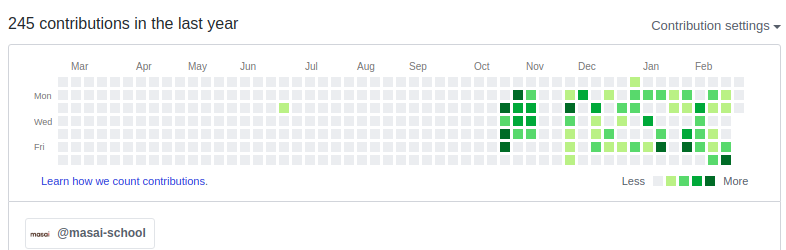
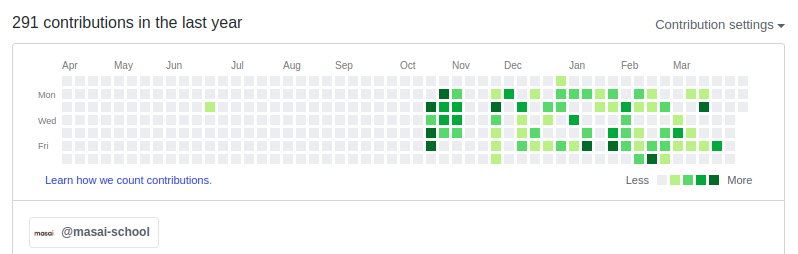
update

diff --git a/src/App.jsx b/src/App.jsx
@@ -40,7 +40,7 @@ function App() {
         </div>
         <div className="row col-md-8 col-sm-12 justify-content-center">
           <h5 className="text-center text-muted">Looking forward towards establishing a professional career in such an organisation where I may be able to apply the knowledge, I have acquired, to contribute to the organisational goals and learn new technologies in order to upgrade myself further.</h5>
-          <button className="btn btn-lg btn-outline-info"> Download Resume</button>
+          <a className="ml-3 text-dark" href="https://drive.google.com/file/d/1zN-ZbW7oobOc0IZ8jy0RxzUouS78E3mI/view?usp=sharing" target="blank"><button className="btn btn-lg btn-outline-info"> Download Resume</button></a>
         </div>
         <div className="col-md-2 col-sm-0">
 
@@ -52,43 +52,43 @@ function App() {
       </div>
       <div className="row ml-5  justify-content-center">
         <div className="col-6 col-sm-6 col-md-4 col-lg-3 mb-3 mt-4">
-            <img  src="/git-icon.svg" style={{width: "111px"}} />
+            <img  src="/git-icon.svg" style={{width: "90px"}} />
             <p className="mt-2 ml-5 mt-3">GIT</p>
         </div>
         <div className="col-6 col-sm-6 col-md-4 col-lg-3 mb-3 ">
-            <img  src="/html-5.svg" style={{width: "111px"}} />
+            <img  src="/html-5.svg" style={{width: "90px"}} />
             <p className="mt-2 ml-4">HTML5</p>
         </div>
         <div className="col-6 col-sm-6 col-md-4 col-lg-3 mb-3">
-            <img  src="/css-3.svg" style={{width: "111px"}} />
+            <img  src="/css-3.svg" style={{width: "90px"}} />
             <p className="mt-2 ml-4">CSS</p>
         </div>
         <div className="col-6 col-sm-6 col-md-4 col-lg-3 mb-3 mt-4">
-            <img  src="/bootstrap.svg" style={{width: "111px"}} />
+            <img  src="/bootstrap.svg" style={{width: "90px"}} />
             <p className="mt-2 ml-1 mt-3">BOOTSTRAP</p>
         </div>
         <div className="col-6 col-sm-6 col-md-4 col-lg-3 mb-3 mt-4">
-            <img  src="/javascript.svg" style={{width: "111px"}} />
+            <img  src="/javascript.svg" style={{width: "90px"}} />
             <p className="mt-2 ml-2 mt-3">JAVASCRIPT</p>
         </div>
         <div className="col-6 col-sm-6 col-md-4 col-lg-3 mb-3 mt-4">
-            <img  src="/react.svg" style={{width: "111px"}} />
+            <img  src="/react.svg" style={{width: "90px"}} />
             <p className="mt-2 ml-4 mt-4">REACT</p>
         </div>
         <div className="col-6 col-sm-6 col-md-4 col-lg-3 mb-3 mt-4">
-            <img  src="/redux.svg" style={{width: "111px"}} />
+            <img  src="/redux.svg" style={{width: "90px"}} />
             <p className="mt-2 ml-4 mt-4">REDUX</p>
         </div>
         <div className="col-6 col-sm-6 col-md-4 col-lg-3 mb-3 mt-4">
-            <img  src="/python.svg" style={{width: "111px"}} />
+            <img  src="/python.svg" style={{width: "90px"}} />
             <p className="mt-2 ml-4 mt-4">PYTHON</p>
         </div>
         <div className="col-6 col-sm-6 col-md-4 col-lg-3 mb-3 mt-4">
-            <img  src="/flask.svg" style={{width: "111px"}} />
+            <img  src="/flask.svg" style={{width: "90px"}} />
             <p className="mt-2 ml-4 mt-4">FLASK</p>
         </div>
         <div className="col-6 col-sm-6 col-md-4 col-lg-3 mb-3 mt-5">
-            <img  src="/mysql.svg" style={{width: "111px"}} />
+            <img  src="/mysql.svg" style={{width: "90px"}} />
             <p className="mt-2 ml-4 mt-4">MYSQL</p>
         </div>
       </div>
@@ -100,28 +100,31 @@ function App() {
         <div className="col-md-3 mt-4">
             <img  src="/react.svg" style={{width: "111px"}} />
             <h5 className="mt-2 ml-4 mt-4 text-muted font-weight-bold">REACT APP</h5>
+            <p>When it comes to react apps<br></br>I have the strength of Atlas</p>
         </div>
         <div className="col-md-3 mt-3">
             <img  src="/database.png" style={{width: "111px"}} />
             <h5 className="mt-2 ml-4 mt-4 text-muted font-weight-bold">BACKEND</h5>
+            <p>I am the one who runs<br></br>the show</p>
         </div>
         <div className="col-md-3 mt-3">
             <img  src="/frontend.png" style={{width: "111px"}} />
             <h5 className="mt-2 ml-4 mt-4 text-muted font-weight-bold">FRONTEND</h5>
+            <p>Now just that I can<br></br>even host the show</p>
         </div>
         <div className="col-md-3 mt-3">
             <img  src="/datastructure.png" style={{width: "111px"}} />
             <h5 className="mt-2 ml-4 mt-4 text-muted font-weight-bold">DATA STRUCTURES</h5>
+            <p>Putting the right blocks in the<br></br>right place is just my thing</p>
         </div>
       </div>
       <div>
       <hr></hr>
       <div className="row justify-content-center">
-        <h1 className="text-muted  display-4">PROJECTS</h1>
-
+        <h1 className="text-muted  display-4">Projects</h1>
         <div className="container-fluid text-center mt-4 mb-5">
-            <div className="row">
-              <div className="col-lg-4 col-md-6 col-sm-12 mb-1">
+            <div className="row justify-content-center">
+              <div className="col-lg-4 col-md-6 col-sm-12 mb-5">
                   <div className="card  shadow-lg">
                     <div className="card-body ">
                       <img className="img-fluid mb-3" src="/expense.png" />
@@ -130,10 +133,10 @@ function App() {
                       <h5 class="card-text">
                         It is a expense manager which have different categories.You can add any expense with current date and time.It shows you the balance.
                       </h5>
-                      <a class="card-link text-muted mt-5" href="#" target="blank">
+                      <a class="card-link text-muted mt-5" href="https://github.com/krsnaapoorv/projects/tree/master/masai-sprint-2" target="blank">
                         <i class="fab fa-github"></i><strong>Github</strong>
                       </a>
-                      <a class="card-link text-muted mt-5" href="#" target="blank">
+                      <a class="card-link text-muted mt-5" href="https://manage-expense.netlify.com/" target="blank">
                         <i class="fab fa-external-link-square-alt"></i><strong>Demo Link</strong>
                       </a>
                     </div>
@@ -145,7 +148,7 @@ function App() {
                   </div>
               </div>
               <div className="col-lg-4 col-md-6 col-sm-12 mb-1">
-                  <div className="card  shadow-lg">
+                  <div className="card  shadow-lg pb-4">
                     <div className="card-body ">
                       <img className="img-fluid mb-3" src="/currency.png" />
                       <hr></hr>
@@ -153,14 +156,14 @@ function App() {
                       <h5 class="card-text">
                         It is a Currency Converter where you can check the current value of your currency with 160 different currencies.
                       </h5>
-                      <a class="card-link text-muted mt-5" href="#" target="blank">
+                      <a class="card-link text-muted mt-5" href="https://github.com/krsnaapoorv/projects/tree/master/masai-sprint-3" target="blank">
                         <i class="fab fa-github"></i><strong>Github</strong>
                       </a>
-                      <a class="card-link text-muted mt-5" href="#" target="blank">
+                      <a class="card-link text-muted mt-5" href="https://convert-currency-krsna.netlify.com/" target="blank">
                         <i class="fab fa-external-link-square-alt"></i><strong>Demo Link</strong>
                       </a>
                     </div>
-                    <div className="row justify-content-center pb-3 float-left">
+                    <div className="row justify-content-center pb-4 float-left">
                         <img style={{width: "40px"}} src="/html-5.svg" alt="" />
                         <img style={{width: "40px"}} className="ml-2" src="/bootstrap.svg" alt="" />
                         <img style={{width: "40px"}} className="ml-2" src="/javascript.svg" alt="" />
@@ -169,7 +172,7 @@ function App() {
                   </div>
               </div>
               <div className="col-lg-4 col-md-6 col-sm-12 mb-1">
-                  <div className="card  shadow-lg">
+                  <div className="card  shadow-lg pb-4">
                     <div className="card-body ">
                       <img className="img-fluid mb-3" src="/gitfinder.png" />
                       <hr></hr>
@@ -177,14 +180,14 @@ function App() {
                       <h5 class="card-text">
                         Here You can find different git users as well as the repositories.You can also check the scores of each git repository.
                       </h5>
-                      <a class="card-link text-muted mt-5" href="#" target="blank">
+                      <a class="card-link text-muted mt-5" href="https://finder-git.netlify.com/" target="blank">
                         <i class="fab fa-github"></i><strong>Github</strong>
                       </a>
-                      <a class="card-link text-muted mt-5" href="#" target="blank">
+                      <a class="card-link text-muted mt-5" href="https://github.com/masai-school/cohort_3/tree/master/submissions/sm_103_apoorva/week_09/day_2/session_1" target="blank">
                         <i class="fab fa-external-link-square-alt"></i><strong>Demo Link</strong>
                       </a>
                     </div>
-                    <div className="row justify-content-center pb-3 float-left">
+                    <div className="row justify-content-center pb-4 float-left">
                         <img style={{width: "40px"}} src="/html-5.svg" alt="" />
                         <img style={{width: "40px"}} className="ml-2" src="/bootstrap.svg" alt="" />
                         <img style={{width: "40px"}} className="ml-2" src="/react.svg" alt="" />
@@ -192,7 +195,7 @@ function App() {
                   </div>
               </div>
               <div className="col-lg-4 col-md-6 col-sm-12 mb-1">
-                  <div className="card  shadow-lg">
+                  <div className="card  shadow-lg pb-3">
                     <div className="card-body ">
                       <img className="img-fluid mb-3" src="/todo.png" />
                       <hr></hr>
@@ -200,14 +203,14 @@ function App() {
                       <h5 class="card-text">
                         A simple todo app where you can create, add , update , delete todo.
                       </h5>
-                      <a class="card-link text-muted mt-5" href="#" target="blank">
+                      <a class="card-link text-muted mt-5" href="https://github.com/masai-school/cohort_3/tree/master/submissions/sm_103_apoorva/week_10/day_2/session_1" target="blank">
                         <i class="fab fa-github"></i><strong>Github</strong>
                       </a>
-                      <a class="card-link text-muted mt-5" href="#" target="blank">
+                      <a class="card-link text-muted mt-5" href="https://todomaterial.netlify.com/" target="blank">
                         <i class="fab fa-external-link-square-alt"></i><strong>Demo Link</strong>
                       </a>
                     </div>
-                    <div className="row justify-content-center pb-3 mt-5 mt-4 float-left">
+                    <div className="row justify-content-center pb-4 mt-5 mt-4 float-left">
                         <img style={{width: "40px"}} src="/html-5.svg" alt="" />
                         <img style={{width: "40px"}} className="ml-2" src="/bootstrap.svg" alt="" />
                         <img style={{width: "40px"}} className="ml-2" src="/react.svg" alt="" />
@@ -216,7 +219,7 @@ function App() {
                   </div>
               </div>
               <div className="col-lg-4 col-md-6 col-sm-12 mb-1">
-                  <div className="card  shadow-lg">
+                  <div className="card  shadow-lg pb-1">
                     <div className="card-body ">
                       <img className="img-fluid mb-3" src="/stopwatch.png" />
                       <hr></hr>
@@ -224,10 +227,10 @@ function App() {
                       <h5 class="card-text">
                         A simple StopWatch and Timer.
                       </h5>
-                      <a class="card-link text-muted mt-5" href="#" target="blank">
+                      <a class="card-link text-muted mt-5" href="https://github.com/masai-school/cohort_3/tree/master/submissions/sm_103_apoorva/week_08/day_3/assignment" target="blank">
                         <i class="fab fa-github"></i><strong>Github</strong>
                       </a>
-                      <a class="card-link text-muted mt-5" href="#" target="blank">
+                      <a class="card-link text-muted mt-5" href="https://stopwatchtimer.netlify.com/" target="blank">
                         <i class="fab fa-external-link-square-alt"></i><strong>Demo Link</strong>
                       </a>
                     </div>
@@ -249,10 +252,10 @@ function App() {
                       <h5 class="card-text">
                         A clone of microsoft website where you can see different listed products and add it to your cart.
                       </h5>
-                      <a class="card-link text-muted mt-5" href="#" target="blank">
+                      <a class="card-link text-muted mt-5" href="https://github.com/masai-school/cohort_3/tree/master/submissions/sm_103_apoorva/week_09/day_5" target="blank">
                         <i class="fab fa-github"></i><strong>Github</strong>
                       </a>
-                      <a class="card-link text-muted mt-5" href="#" target="blank">
+                      <a class="card-link text-muted mt-5" href="https://microsoft-dummy1.netlify.com/" target="blank">
                         <i class="fab fa-external-link-square-alt"></i><strong>Demo Link</strong>
                       </a>
                     </div>
@@ -263,6 +266,51 @@ function App() {
                     </div>
                   </div>
               </div>
+              <div className="col-lg-4 col-md-6 col-sm-12 mb-1 mt-5">
+                  <div className="card  shadow-lg pb-3">
+                    <div className="card-body ">
+                      <img className="img-fluid mb-3" src="/teachers.png" />
+                      <hr></hr>
+                      <h2 class="card-title font-weight-bold">Teachers Manager</h2>
+                      <h5 class="card-text">
+                        Here, you can manage teachers data based on of your institution based on the classes,subject and sections they are teching. 
+                      </h5>
+                      <a class="card-link text-muted mt-5" href="https://github.com/masai-school/cohort_3/tree/master/submissions/sm_103_apoorva/week_23/day_5/evaluation" target="blank">
+                        <i class="fab fa-github"></i><strong>Github</strong>
+                      </a>
+                    </div>
+                    <div className="row justify-content-center pb-5  mt-5  float-left">
+                        <img style={{width: "40px"}} src="/html-5.svg" alt="" />
+                        <img style={{width: "40px"}} className="ml-2" src="/bootstrap.svg" alt="" />
+                        <img style={{width: "40px"}} className="ml-2" src="/react.svg" alt="" />
+                        <img style={{width: "50px"}} className="ml-2" src="/redux.svg" alt="" />
+                        <img style={{width: "50px"}} className="ml-2" src="/mysql.svg" alt="" />
+                    </div>
+                  </div>
+              </div>
+              <div className="col-lg-4 col-md-6 col-sm-12 mb-1 mt-5">
+                  <div className="card  shadow-lg pb-1">
+                    <div className="card-body ">
+                      <img className="img-fluid mb-3" src="/blog_app.png" />
+                      <hr></hr>
+                      <h2 class="card-title font-weight-bold">Blog Application</h2>
+                      <h5 class="card-text">
+                        A blog application where you can see blog written by different users and comment on that.You can also add,edit,delete your blog.
+                      </h5>
+                      <a class="card-link text-muted mt-5" href="https://github.com/masai-school/cohort_3/tree/master/submissions/sm_103_apoorva/week_18/day_4/sesssion_1" target="blank">
+                        <i class="fab fa-github"></i><strong>Github</strong>
+                      </a>
+                    </div>
+                    <div className="row justify-content-center mt-5 float-left">
+                        <img style={{width: "40px"}} src="/html-5.svg" alt="" />
+                        <img style={{width: "40px"}} className="ml-2" src="/bootstrap.svg" alt="" />
+                        <img style={{width: "40px"}} className="ml-2" src="/react.svg" alt="" />
+                        <img style={{width: "50px"}} className="ml-2" src="/redux.svg" alt="" />
+                        <img style={{width: "50px"}} className="ml-2" src="/mysql.svg" alt="" />
+                    </div>
+                    <br></br>
+                  </div>
+              </div>
             </div>
         </div>
       </div>
@@ -270,32 +318,32 @@ function App() {
       </div>
       <div className="row justify-content-center">
         <div>
-          <div className="circleDiv ml-5 mt-sm-2 d-flex justify-content-center ">
+          <div className="circleDiv ml-2 mt-sm-2 d-flex justify-content-center ">
             <h2 className=" text-center m-auto font-weight-bold">1200</h2>
           </div>
           <h4 className="text-center text-muted m-auto font-weight-bold p-4">Hours Of Coding</h4>
         </div>
         
         <div>
-          <div className="circleDiv ml-5 mt-sm-2 d-flex justify-content-center ">
-            <h2 className="text-center m-auto font-weight-bold">200+</h2>
+          <div className="circleDiv ml-4 mt-sm-2 d-flex justify-content-center ">
+            <h2 className="text-center m-auto font-weight-bold">240+</h2>
           </div>
           <h4 className="text-center text-muted m-auto font-weight-bold p-4">Hackerrank Problems</h4>
         </div>
         
         <div>
-          <div className="circleDiv ml-5 mt-sm-2 d-flex justify-content-center ">
-            <h2 className="text-center m-auto font-weight-bold">200</h2>
+          <div className="circleDiv ml-3 mt-sm-2 d-flex justify-content-center ">
+            <h2 className="text-center m-auto font-weight-bold">100</h2>
           </div>
           <h4 className="text-center text-muted m-auto font-weight-bold ml-5 p-4">Hours Of Soft Skill</h4>
         </div>
         
 
         <div>
-          <div className="circleDiv ml-5 mt-sm-2 d-flex justify-content-center ">
-            <h2 className="text-center m-auto font-weight-bold">245+</h2>
+          <div className="circleDiv ml-3 mt-sm-2 d-flex justify-content-center ">
+            <h2 className="text-center m-auto font-weight-bold">290+</h2>
           </div>
-          <h4 className="ml-4 text-center text-muted m-auto font-weight-bold p-4">Git Commits</h4>
+          <h4 className="text-center text-muted m-auto font-weight-bold p-4">Git Commits</h4>
         </div>
         
       </div>
